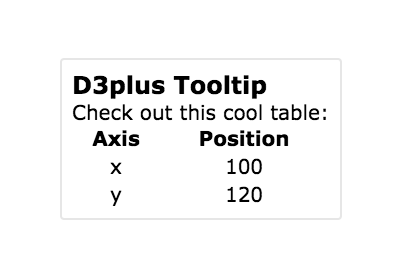
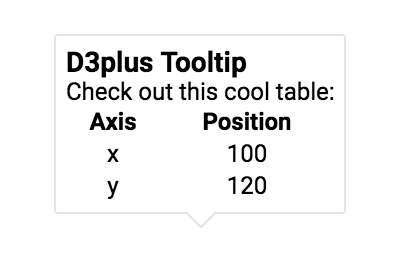
d3plus-tooltip examples

Changed region(s): [[0.1171, 0.1185, 0.8488, 0.8593]]

diff --git a/_examples/d3plus-tooltip/getting-started/embed.html b/_examples/d3plus-tooltip/getting-started/embed.html
@@ -4,12 +4,13 @@
 <head>
 
   <meta charset="utf-8">
-  <script src="https://d3plus.org/js/d3plus-tooltip.v0.2.full.min.js"></script>
+  <script src="https://d3plus.org/js/d3plus-tooltip.v0.3.full.min.js"></script>
 
   <style>
 
     body {
       margin: 0;
+      overflow: hidden;
     }
 
   </style>

diff --git a/_examples/d3plus-tooltip/getting-started/index.md b/_examples/d3plus-tooltip/getting-started/index.md
@@ -2,6 +2,8 @@
 title: Getting Started
 width: 205
 height: 135
+time: 1523543679707
+date: April 12, 2018
 ---
 
 [width]: 205
